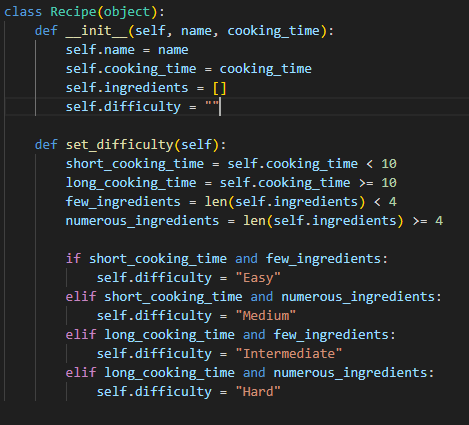
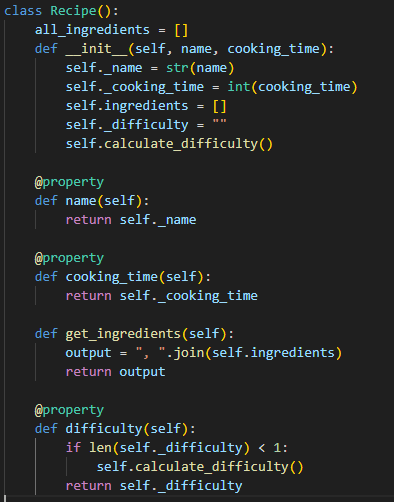
updated Task 1.5

Changed region(s): [[0.0, 0.0, 0.9442, 0.9788], [0.3959, 0.9788, 0.4264, 1.0], [0.0, 0.9788, 0.0305, 1.0]]

diff --git a/Exercise1.5/Main_task/recipe_oop.py b/Exercise1.5/Main_task/recipe_oop.py
@@ -1,36 +1,29 @@
-class Recipe(object):
+class Recipe():
     all_ingredients = []
     def __init__(self, name, cooking_time):
-        self.name = str(name)
-        self.cooking_time = int(cooking_time)
+        self._name = str(name)
+        self._cooking_time = int(cooking_time)
         self.ingredients = []
-        self.difficulty = ""
+        self._difficulty = ""
         self.calculate_difficulty()
 
-    def get_name(self):
-        print("------------------------------------")
-        print("\nRecipe:", self.name)
-        print("------------------------------------")
+    @property
+    def name(self):
+        return self._name
 
-
-    def get_cooking_time(self):
-        print("------------------------------------")
-        print("\nCooking Time:", self.cooking_time)
-        print("------------------------------------")
-
+    @property
+    def cooking_time(self):
+        return self._cooking_time
+    
     def get_ingredients(self):
-        print("------------------------------------")
-        print('\nIngredients: ')
-        for ingredient in self.ingredients:
-            print(ingredient)
-        print("------------------------------------")
+        output = ", ".join(self.ingredients)
+        return output
 
-    def get_difficulty(self):
-        if len(self.difficulty) < 1:
+    @property
+    def difficulty(self):
+        if len(self._difficulty) < 1:
             self.calculate_difficulty()
-        print("------------------------------------")
-        print("\nDifficulty:", self.difficulty)
-        print("------------------------------------")
+        return self._difficulty
 
         
 
@@ -42,34 +35,36 @@ class Recipe(object):
         self.calculate_difficulty()
             
         self.update_all_ingredients()
-
+    
     def calculate_difficulty(self):
-        short_cooking_time = self.cooking_time < 10
-        long_cooking_time = self.cooking_time >= 10
+        short_cooking_time = self._cooking_time < 10
+        long_cooking_time = self._cooking_time >= 10
         few_ingredients = len(self.ingredients) < 4
         numerous_ingredients = len(self.ingredients) >= 4
 
         if short_cooking_time and few_ingredients:
-            self.difficulty = "Easy"
+            self._difficulty = "Easy"
         elif short_cooking_time and numerous_ingredients:
-            self.difficulty = "Medium"
+            self._difficulty = "Medium"
         elif long_cooking_time and few_ingredients:
-            self.difficulty = "Intermediate"
+            self._difficulty = "Intermediate"
         elif long_cooking_time and numerous_ingredients:
-            self.difficulty = "Hard"
+            self._difficulty = "Hard"
 
     def search_ingredient(self, ingredient):
-        if ingredient in self.ingredients:
+        if ingredient.lower() in self.ingredients:
             return True
         else:
             return False
 
-    def set_cooking_time(self, cooking_time):
-        self.cooking_time = int(cooking_time)
+    @cooking_time.setter
+    def cooking_time(self, new_cooking_time):
+        self._cooking_time = int(new_cooking_time)
         self.calculate_difficulty()
 
-    def set_name(self, name):
-        self.name = str(name)
+    @name.setter
+    def name(self, name):
+        self._name = str(name)
 
     def update_all_ingredients(self):
         for ingredient in self.ingredients:
@@ -79,25 +74,20 @@ class Recipe(object):
     def recipe_search(data, search_term):
         printed_recipes= []
         for recipe in data:
-            check_ingredients = []
-
             for search_item in search_term:
                 if recipe.search_ingredient(search_item.lower()) == True:
-                    check_ingredients.append("True")
-            if len(check_ingredients) == len(search_term):
-                print(recipe)
-                printed_recipes.append(recipe.name)
+                    print(recipe)
+                    printed_recipes.append(recipe.name)
+                    break          
+
         if len(printed_recipes) < 1:
             print("No recipes found.")
 
-
-
     def __str__(self):
-        ingredient_list = ' - ' + '\n - '.join(self.ingredients)
         output = "\nRecipe: "+ self.name + \
                     "\nCooking Time (in minutes): " + str(self.cooking_time) + \
                     "\nDifficulty: " + self.difficulty + \
-                    "\nIngredients: \n" + ingredient_list
+                    "\nIngredients: \n" + self.get_ingredients()
         return output
 
 recipe1 = Recipe('Tea', 5)
